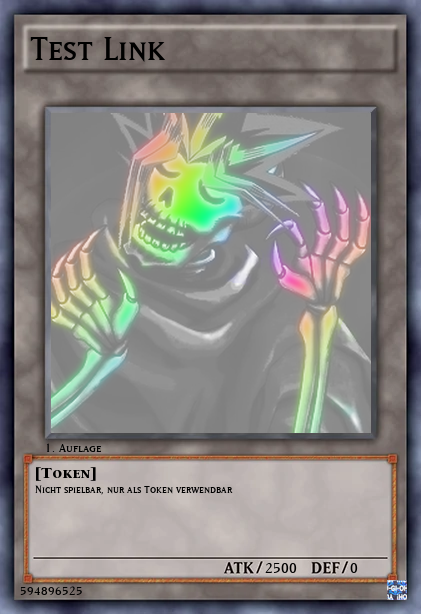
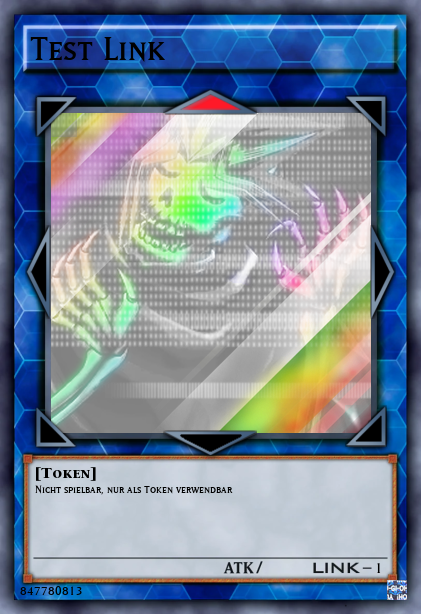
Rarity added

diff --git a/modules/CardMaker.py b/modules/CardMaker.py
@@ -1,3 +1,4 @@
+from ast import Return
 from _config import *
 from Creator import *
 from PIL import Image, ImageDraw
@@ -22,6 +23,8 @@ class DrawImage():
     global draw
     global attribute_image
     global source_card
+    global image_height
+    global image_width
 
     if card == "Effect":
         source_card = "Card-effect.png"
@@ -75,11 +78,24 @@ class DrawImageCard():
 
     print("Card Image: " + image_card + "\n")
 
+class DrawCardRarity():
+    global tmpout
+    tmpout = Image.alpha_composite(image, image_with_text)
+    tmpout.save("tmpout.png")
+    if rarity == "Secret Rare":
+        area = 51, 113 
+        card_image = Image.open(souce_path + path_rarity + "Secret-Rare.png")
+        card = card_image.resize((320,320),Image.ANTIALIAS)
+        image_with_text.paste(card, area)
+        print("Card Rarity: Secret Rare")
+    else:
+        print("Card Rarity: None")
 class DrawLinkArrow():
     global linkLevel
     linkLevel = 0
-    out = Image.alpha_composite(image, image_with_text)
-    out.save("1.png")
+
+    tmpout = Image.alpha_composite(tmpout, image_with_text)
+    tmpout.save("tmpout.png")
     if card == "Link":
 
         if linkField[0][0] == 1:
@@ -220,7 +236,6 @@ class DrawText():
         draw.text((def_x, def_y), Defense, font=font3, fill=desc_color, align=text_alignment)
         draw.text((card_id_x, card_id_y), card_id, font=font4, fill=title_color, align=text_alignment)
 
-
 class DrawSpellTrapText():
     stText_x = 275
     stText_y = 77
@@ -262,8 +277,6 @@ class DrawSpellTrapText():
             stText_y = 77
             draw.text((stText_x, stText_y), "[Trap]", font=font1, fill=title_color, align=text_alignment)
 
-    
-
 class DrawCardType():
     if Attribute == "Void":
         attribute_image = "Void.png"
@@ -304,8 +317,8 @@ class DrawCornerSign():
     area = area_x, area_y
     image_with_text.paste(attribute_img, area)
 
-image = Image.open("1.png").convert('RGBA')
-os.remove("1.png")
+image = Image.open("tmpout.png").convert('RGBA')
+os.remove("tmpout.png")
 
 out = Image.alpha_composite(image, image_with_text)
 out.show()  

diff --git a/Creator.py b/Creator.py
@@ -1,10 +1,11 @@
 import modules.CardMaker
 
 #All Important Information are Set here for the CardMaker
-card        = "Token"
+card        = "Link"
 image_card  = "SkeletonT1.png"
 cardkind    = "Continuous"
 
+rarity      = "Secret Rare"
 
 auflage     = "1. Auflage"
 card_id     = ""
@@ -16,9 +17,9 @@ Level       = 0
 lvlcolor    = "red"
 
 linkField = [
-            [1, 1, 1],
-            [1, 0, 1],
-            [1, 0, 1]
+            [0, 1, 0],
+            [0, 0, 0],
+            [0, 0, 0]
             ]
 
 Type        = "[Token]"
